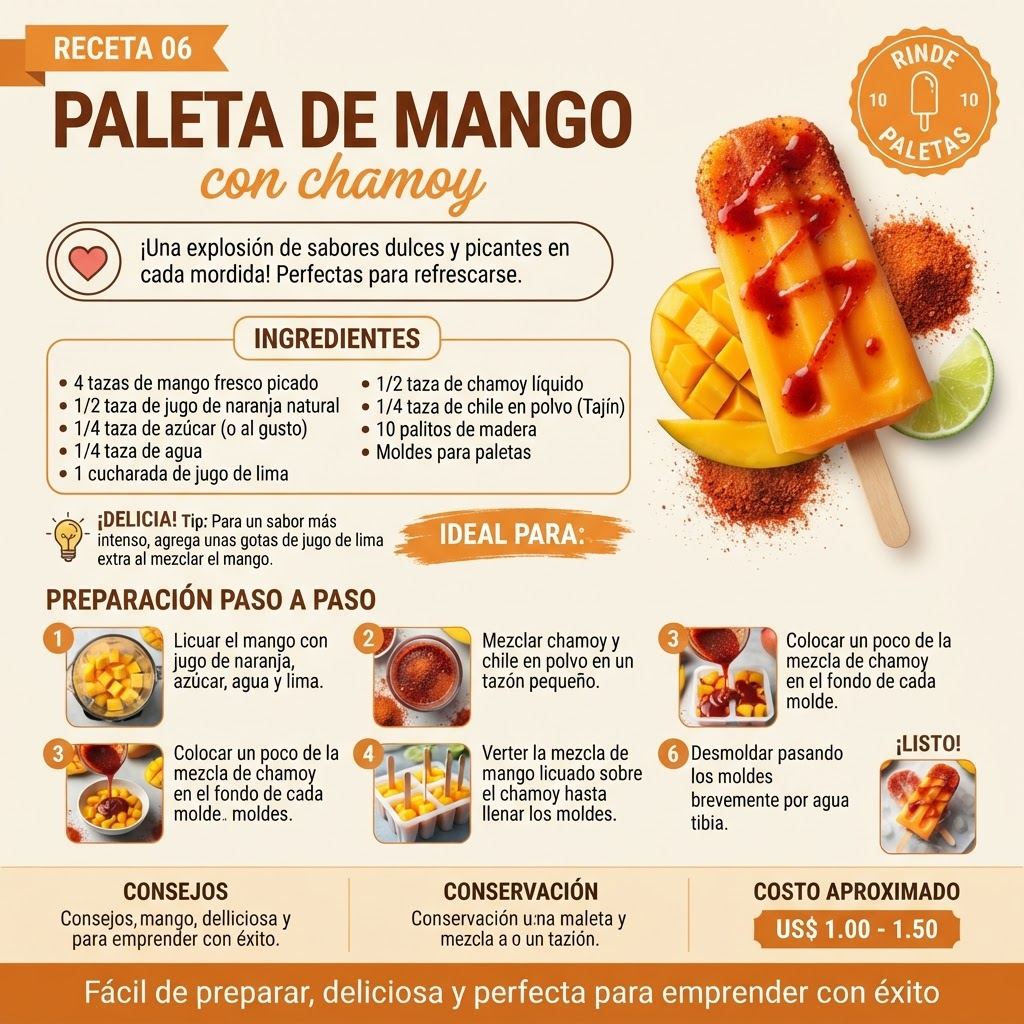
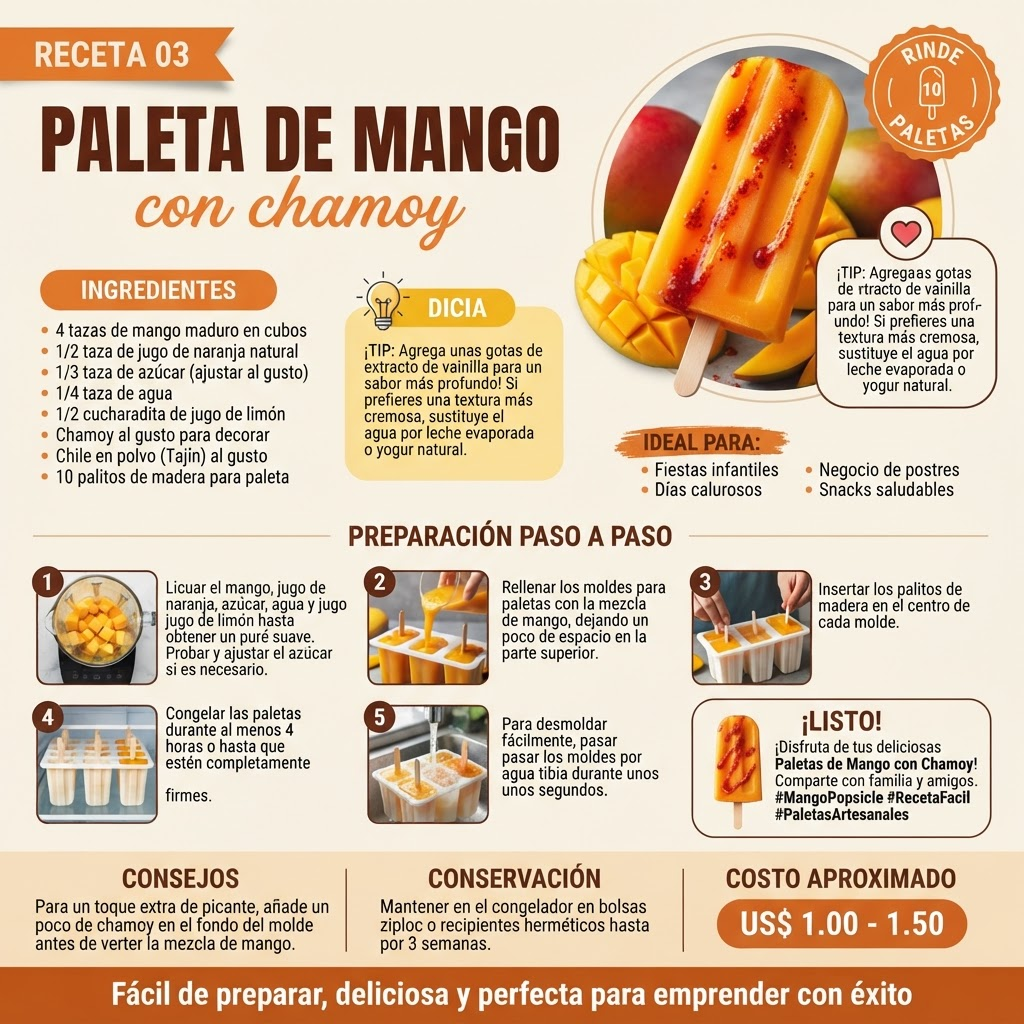
feat: update recipes with new Pistacho and Mango flavors

diff --git a/lib/recipes.ts b/lib/recipes.ts
@@ -69,98 +69,91 @@ export const recipes: Recipe[] = [
   },
   {
     id: 2,
-    slug: "chocolate-caramelo-salado",
+    slug: "pistacho",
     numero: "RECETA 02",
-    titulo: "Paleta de Chocolate",
-    subtitulo: "con caramelo salado",
+    titulo: "Paleta de Pistacho",
+    subtitulo: "cremosa y gourmet",
     descripcion:
-      "Intenso chocolate combinado con un centro de caramelo salado. ¡Irresistible, gourmet y perfecta para vender!",
+      "Una paleta premium de color verde natural, cremosa y con el sabor delicado del pistacho. Elegante y muy rentable.",
     rinde: 10,
-    image: "/images/product-1.png",
+    image: "/images/product-3.png",
     categoria: "Premium",
-    posterImage: "/images/poster-chocolate-caramelo-salado.png",
+    posterImage: "/images/poster-pistacho.png",
     ingredientes: [
       "2 tazas de leche entera (500 ml)",
       "1 taza de crema de leche (200 ml)",
       "1/2 taza de leche condensada (150 g)",
-      "100 g de chocolate semiamargo picado",
+      "1/2 taza de pistachos pelados",
       "1 cucharadita de esencia de vainilla",
       "1 pizca de sal",
-      "1 cucharada de cacao en polvo",
-    ],
-    ingredientesExtra: {
-      titulo: "Para el caramelo salado:",
-      items: [
-        "1 taza de azúcar",
-        "1/2 taza de crema de leche (120 ml)",
-        "1 cucharada de mantequilla",
-        "1/2 cucharadita de sal marina",
-      ],
-    },
-    dica: "El toque de sal resalta el sabor del chocolate y el caramelo. Usa sal marina en escamas para un acabado profesional.",
-    idealPara: "Postres en familia, fiestas, emprender y vender.",
-    pasos: [
-      "En una olla, mezcla la leche entera, la crema de leche, la leche condensada, el cacao en polvo y la esencia de vainilla. Revuelve bien.",
-      "Lleva a fuego medio sin dejar de mover hasta que el chocolate se derrita por completo y la mezcla esté caliente (pero sin hervir). Retira del fuego.",
-      "Para el caramelo: en una olla seca, derrite el azúcar a fuego medio hasta obtener un caramelo dorado. Agrega la mantequilla, mezcla y luego la crema de leche (¡con cuidado!).",
-      "Cocina por 2-3 minutos hasta que espese. Agrega la sal marina y mezcla. Deja enfriar.",
-      "Vierte un poco de mezcla de chocolate en los moldes. Agrega una cucharadita de caramelo salado en el centro y cubre con más mezcla. Coloca los palitos.",
-      "Lleva al congelador por mínimo 6 horas o hasta que estén completamente firmes.",
-    ],
-    listo: "Desmolda y disfruta esta paleta de chocolate con caramelo salado. ¡Un sabor gourmet que enamora!",
-    consejos: [
-      "Usa chocolate de buena calidad para un sabor más intenso.",
-      "Puedes decorar con sal marina en escamas antes de congelar.",
-      "Conserva siempre en congelación.",
-    ],
-    conservacion:
-      "Mantén las paletas en el congelador en recipientes cerrados o bolsas herméticas para que no absorban olores y se conserven perfectas.",
-    costoPaleta: "US$ 0.28 – 0.35",
-    precioVenta: "US$ 1.00 – 1.50",
-  },
-  {
-    id: 3,
-    slug: "cookies-and-cream",
-    numero: "RECETA 03",
-    titulo: "Paleta de Cookies & Cream",
-    subtitulo: "con trozos de galleta Oreo",
-    descripcion:
-      "Cremosa, crujiente y llena de sabor. Con trozos de galleta Oreo en cada mordida. ¡Irresistible y perfecta para vender!",
-    rinde: 10,
-    image: "/images/receta-cookies.png",
-    categoria: "Cremosas",
-    posterImage: "/images/poster-cookies-and-cream.png",
-    ingredientes: [
-      "2 tazas de leche entera (500 ml)",
-      "1 taza de crema de leche (200 ml)",
-      "1/2 taza de leche condensada (150 g)",
-      "1 cucharadita de esencia de vainilla",
-      "100 g de chocolate blanco picado",
-      "6 galletas Oreo (trituradas en trozos)",
     ],
     ingredientesExtra: {
       titulo: "Extra para decorar (opcional):",
-      items: ["2 galletas Oreo (trituradas finas)", "1 cucharada de chispas de chocolate"],
+      items: ["Pistachos picados", "Chocolate blanco derretido"],
     },
-    dica: "Usa galletas Oreo originales para mejor sabor y textura. Puedes picarlas a mano para que queden trozos más grandes y crujientes.",
-    idealPara: "Postres en familia, fiestas, emprender y vender.",
+    dica: "Procesa los pistachos hasta formar una pasta fina para que el sabor se distribuya en toda la paleta.",
+    idealPara: "Postres gourmet, fiestas, emprender y vender.",
     pasos: [
-      "En una olla, mezcla la leche entera, la crema de leche, la leche condensada, el chocolate blanco picado y la esencia de vainilla. Revuelve bien.",
-      "Lleva a fuego medio bajo sin dejar de mover hasta que el chocolate se derrita por completo y la mezcla esté caliente (pero sin hervir).",
-      "Retira del fuego y deja enfriar unos minutos. Agrega las galletas Oreo trituradas y mezcla suavemente.",
-      "Vierte la mezcla en los moldes para paletas, llenando aproximadamente 3/4 de su capacidad.",
-      "Espolvorea trozos de Oreo por encima y presiona ligeramente para que se integren. Coloca los palitos.",
+      "Procesa los pistachos con un poco de leche hasta obtener una pasta fina.",
+      "En un bol, mezcla la pasta de pistacho con la leche entera, la crema, la leche condensada, la vainilla y la sal.",
+      "Bate bien hasta que la mezcla quede homogénea y de color verde suave.",
+      "Vierte la mezcla en los moldes, llenando 3/4 de su capacidad.",
+      "Espolvorea pistachos picados por encima y coloca los palitos.",
       "Lleva al congelador por mínimo 6 horas o hasta que estén completamente firmes.",
     ],
-    listo: "Desmolda y disfruta esta deliciosa paleta cremosa con trozos de Oreo. ¡Un clásico que a todos les encanta!",
+    listo: "Desmolda y disfruta esta elegante paleta de pistacho. ¡Un sabor gourmet de alto valor!",
     consejos: [
-      "Decora con más trozos de Oreo antes de congelar.",
-      "Para vender, envuelve en bolsitas y sella bien.",
+      "Usa pistachos naturales sin sal para controlar el sabor.",
+      "Baña la punta en chocolate blanco para una presentación premium.",
       "Conserva siempre en congelación.",
     ],
     conservacion:
       "Mantén las paletas en el congelador en recipientes cerrados o bolsas herméticas para que no absorban olores y se conserven perfectas.",
-    costoPaleta: "US$ 0.25 – 0.30",
+    costoPaleta: "US$ 0.35 – 0.45",
+    precioVenta: "US$ 1.50 – 2.00",
+  },
+  {
+    id: 3,
+    slug: "mango-con-chamoy",
+    numero: "RECETA 03",
+    titulo: "Paleta de Mango",
+    subtitulo: "con chamoy",
+    descripcion:
+      "El dulzor tropical del mango con el toque picante del chamoy. Refrescante, vibrante y muy popular.",
+    rinde: 10,
+    image: "/images/receta-mango.png",
+    categoria: "Frutales",
+    posterImage: "/images/poster-mango-con-chamoy.png",
+    ingredientes: [
+      "2 tazas de pulpa de mango maduro",
+      "1 taza de crema de leche (200 ml)",
+      "1/2 taza de leche condensada (150 g)",
+      "1/2 taza de leche entera (120 ml)",
+      "1 cucharada de jugo de limón",
+    ],
+    ingredientesExtra: {
+      titulo: "Para decorar:",
+      items: ["Chamoy al gusto", "Chile en polvo (opcional)"],
+    },
+    dica: "Pinta el interior del molde con chamoy antes de verter la mezcla para un efecto marmoleado y más sabor.",
+    idealPara: "Postres refrescantes, fiestas, emprender y vender.",
+    pasos: [
+      "Licúa la pulpa de mango con la leche entera, la crema de leche, la leche condensada y el jugo de limón.",
+      "Prueba y ajusta el dulzor según la madurez del mango.",
+      "Pinta el interior de los moldes con un poco de chamoy.",
+      "Vierte la mezcla de mango en los moldes, llenando 3/4 de su capacidad.",
+      "Agrega un hilo de chamoy por encima y coloca los palitos.",
+      "Lleva al congelador por mínimo 6 horas o hasta que estén completamente firmes.",
+    ],
+    listo: "Desmolda y disfruta esta paleta de mango con chamoy. ¡Dulce, cremosa y con el toque picante perfecto!",
+    consejos: [
+      "Usa mango bien maduro para más dulzor natural.",
+      "Añade chile en polvo al servir para un toque extra.",
+      "Conserva siempre en congelación.",
+    ],
+    conservacion:
+      "Mantén las paletas en el congelador en recipientes cerrados o bolsas herméticas para que no absorban olores y se conserven perfectas.",
+    costoPaleta: "US$ 0.22 – 0.30",
     precioVenta: "US$ 1.00 – 1.50",
   },
   {
@@ -206,91 +199,98 @@ export const recipes: Recipe[] = [
   },
   {
     id: 5,
-    slug: "pistacho",
+    slug: "cookies-and-cream",
     numero: "RECETA 05",
-    titulo: "Paleta de Pistacho",
-    subtitulo: "cremosa y gourmet",
+    titulo: "Paleta de Cookies & Cream",
+    subtitulo: "con trozos de galleta Oreo",
     descripcion:
-      "Una paleta premium de color verde natural, cremosa y con el sabor delicado del pistacho. Elegante y muy rentable.",
+      "Cremosa, crujiente y llena de sabor. Con trozos de galleta Oreo en cada mordida. ¡Irresistible y perfecta para vender!",
     rinde: 10,
-    image: "/images/product-3.png",
-    categoria: "Premium",
-    posterImage: "/images/poster-pistacho.png",
+    image: "/images/receta-cookies.png",
+    categoria: "Cremosas",
+    posterImage: "/images/poster-cookies-and-cream.png",
     ingredientes: [
       "2 tazas de leche entera (500 ml)",
       "1 taza de crema de leche (200 ml)",
       "1/2 taza de leche condensada (150 g)",
-      "1/2 taza de pistachos pelados",
       "1 cucharadita de esencia de vainilla",
-      "1 pizca de sal",
+      "100 g de chocolate blanco picado",
+      "6 galletas Oreo (trituradas en trozos)",
     ],
     ingredientesExtra: {
       titulo: "Extra para decorar (opcional):",
-      items: ["Pistachos picados", "Chocolate blanco derretido"],
+      items: ["2 galletas Oreo (trituradas finas)", "1 cucharada de chispas de chocolate"],
     },
-    dica: "Procesa los pistachos hasta formar una pasta fina para que el sabor se distribuya en toda la paleta.",
-    idealPara: "Postres gourmet, fiestas, emprender y vender.",
+    dica: "Usa galletas Oreo originales para mejor sabor y textura. Puedes picarlas a mano para que queden trozos más grandes y crujientes.",
+    idealPara: "Postres en familia, fiestas, emprender y vender.",
     pasos: [
-      "Procesa los pistachos con un poco de leche hasta obtener una pasta fina.",
-      "En un bol, mezcla la pasta de pistacho con la leche entera, la crema, la leche condensada, la vainilla y la sal.",
-      "Bate bien hasta que la mezcla quede homogénea y de color verde suave.",
-      "Vierte la mezcla en los moldes, llenando 3/4 de su capacidad.",
-      "Espolvorea pistachos picados por encima y coloca los palitos.",
+      "En una olla, mezcla la leche entera, la crema de leche, la leche condensada, el chocolate blanco picado y la esencia de vainilla. Revuelve bien.",
+      "Lleva a fuego medio bajo sin dejar de mover hasta que el chocolate se derrita por completo y la mezcla esté caliente (pero sin hervir).",
+      "Retira del fuego y deja enfriar unos minutos. Agrega las galletas Oreo trituradas y mezcla suavemente.",
+      "Vierte la mezcla en los moldes para paletas, llenando aproximadamente 3/4 de su capacidad.",
+      "Espolvorea trozos de Oreo por encima y presiona ligeramente para que se integren. Coloca los palitos.",
       "Lleva al congelador por mínimo 6 horas o hasta que estén completamente firmes.",
     ],
-    listo: "Desmolda y disfruta esta elegante paleta de pistacho. ¡Un sabor gourmet de alto valor!",
+    listo: "Desmolda y disfruta esta deliciosa paleta cremosa con trozos de Oreo. ¡Un clásico que a todos les encanta!",
     consejos: [
-      "Usa pistachos naturales sin sal para controlar el sabor.",
-      "Baña la punta en chocolate blanco para una presentación premium.",
+      "Decora con más trozos de Oreo antes de congelar.",
+      "Para vender, envuelve en bolsitas y sella bien.",
       "Conserva siempre en congelación.",
     ],
     conservacion:
       "Mantén las paletas en el congelador en recipientes cerrados o bolsas herméticas para que no absorban olores y se conserven perfectas.",
-    costoPaleta: "US$ 0.35 – 0.45",
-    precioVenta: "US$ 1.50 – 2.00",
+    costoPaleta: "US$ 0.25 – 0.30",
+    precioVenta: "US$ 1.00 – 1.50",
   },
   {
     id: 6,
-    slug: "mango-con-chamoy",
+    slug: "chocolate-caramelo-salado",
     numero: "RECETA 06",
-    titulo: "Paleta de Mango",
-    subtitulo: "con chamoy",
+    titulo: "Paleta de Chocolate",
+    subtitulo: "con caramelo salado",
     descripcion:
-      "El dulzor tropical del mango con el toque picante del chamoy. Refrescante, vibrante y muy popular.",
+      "Intenso chocolate combinado con un centro de caramelo salado. ¡Irresistible, gourmet y perfecta para vender!",
     rinde: 10,
-    image: "/images/receta-mango.png",
-    categoria: "Frutales",
-    posterImage: "/images/poster-mango-con-chamoy.png",
+    image: "/images/product-1.png",
+    categoria: "Premium",
+    posterImage: "/images/poster-chocolate-caramelo-salado.png",
     ingredientes: [
-      "2 tazas de pulpa de mango maduro",
+      "2 tazas de leche entera (500 ml)",
       "1 taza de crema de leche (200 ml)",
       "1/2 taza de leche condensada (150 g)",
-      "1/2 taza de leche entera (120 ml)",
-      "1 cucharada de jugo de limón",
+      "100 g de chocolate semiamargo picado",
+      "1 cucharadita de esencia de vainilla",
+      "1 pizca de sal",
+      "1 cucharada de cacao en polvo",
     ],
     ingredientesExtra: {
-      titulo: "Para decorar:",
-      items: ["Chamoy al gusto", "Chile en polvo (opcional)"],
+      titulo: "Para el caramelo salado:",
+      items: [
+        "1 taza de azúcar",
+        "1/2 taza de crema de leche (120 ml)",
+        "1 cucharada de mantequilla",
+        "1/2 cucharadita de sal marina",
+      ],
     },
-    dica: "Pinta el interior del molde con chamoy antes de verter la mezcla para un efecto marmoleado y más sabor.",
-    idealPara: "Postres refrescantes, fiestas, emprender y vender.",
+    dica: "El toque de sal resalta el sabor del chocolate y el caramelo. Usa sal marina en escamas para un acabado profesional.",
+    idealPara: "Postres en familia, fiestas, emprender y vender.",
     pasos: [
-      "Licúa la pulpa de mango con la leche entera, la crema de leche, la leche condensada y el jugo de limón.",
-      "Prueba y ajusta el dulzor según la madurez del mango.",
-      "Pinta el interior de los moldes con un poco de chamoy.",
-      "Vierte la mezcla de mango en los moldes, llenando 3/4 de su capacidad.",
-      "Agrega un hilo de chamoy por encima y coloca los palitos.",
+      "En una olla, mezcla la leche entera, la crema de leche, la leche condensada, el cacao en polvo y la esencia de vainilla. Revuelve bien.",
+      "Lleva a fuego medio sin dejar de mover hasta que el chocolate se derrita por completo y la mezcla esté caliente (pero sin hervir). Retira del fuego.",
+      "Para el caramelo: en una olla seca, derrite el azúcar a fuego medio hasta obtener un caramelo dorado. Agrega la mantequilla, mezcla y luego la crema de leche (¡con cuidado!).",
+      "Cocina por 2-3 minutos hasta que espese. Agrega la sal marina y mezcla. Deja enfriar.",
+      "Vierte un poco de mezcla de chocolate en los moldes. Agrega una cucharadita de caramelo salado en el centro y cubre con más mezcla. Coloca los palitos.",
       "Lleva al congelador por mínimo 6 horas o hasta que estén completamente firmes.",
     ],
-    listo: "Desmolda y disfruta esta paleta de mango con chamoy. ¡Dulce, cremosa y con el toque picante perfecto!",
+    listo: "Desmolda y disfruta esta paleta de chocolate con caramelo salado. ¡Un sabor gourmet que enamora!",
     consejos: [
-      "Usa mango bien maduro para más dulzor natural.",
-      "Añade chile en polvo al servir para un toque extra.",
+      "Usa chocolate de buena calidad para un sabor más intenso.",
+      "Puedes decorar con sal marina en escamas antes de congelar.",
       "Conserva siempre en congelación.",
     ],
     conservacion:
       "Mantén las paletas en el congelador en recipientes cerrados o bolsas herméticas para que no absorban olores y se conserven perfectas.",
-    costoPaleta: "US$ 0.22 – 0.30",
+    costoPaleta: "US$ 0.28 – 0.35",
     precioVenta: "US$ 1.00 – 1.50",
   },
   {